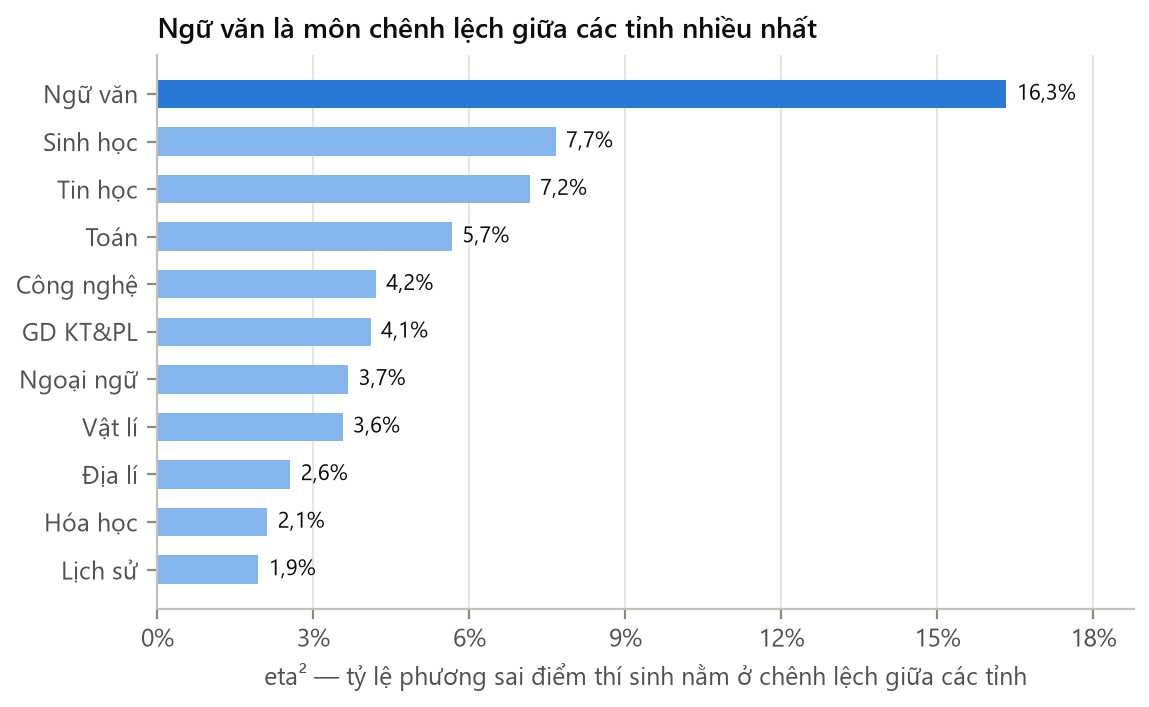
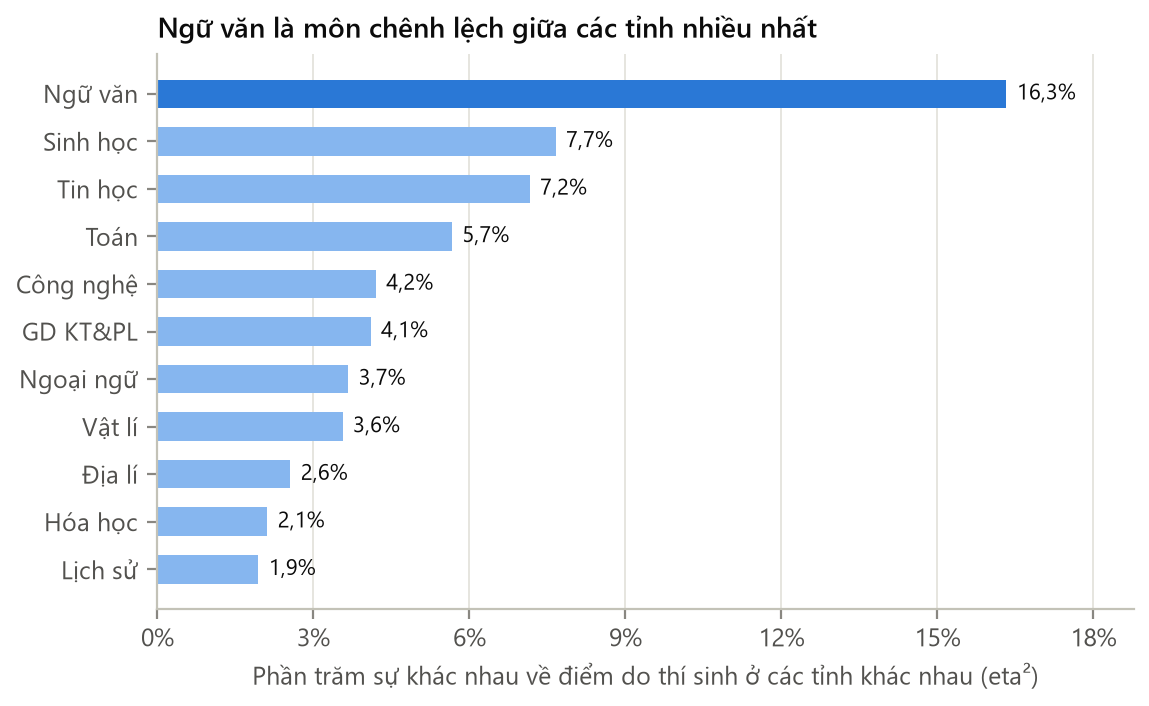
Hình: thay nhãn thuật ngữ bằng lời dễ hiểu (H5.2, H5.4, H5.5, H5.6); cập nhật trạng thái đề cương

diff --git a/bao_cao/ve_hinh.py b/bao_cao/ve_hinh.py
@@ -274,7 +274,7 @@ def h5_2():
     ax.grid(axis="y", visible=False)
     ax.set_xlim(0, d.eta2.max() * 1.15)
     ax.set_xticks(np.arange(0, 0.181, 0.03))
-    ax.set_xlabel("eta² — tỷ lệ phương sai điểm thí sinh nằm ở chênh lệch giữa các tỉnh")
+    ax.set_xlabel("Phần trăm sự khác nhau về điểm do thí sinh ở các tỉnh khác nhau (eta²)")
     ax.set_title("Ngữ văn là môn chênh lệch giữa các tỉnh nhiều nhất")
     save(fig, "H5_2_eta2_chenh_lech_mon")
 
@@ -342,7 +342,8 @@ def h5_4():
         ax.set_xscale("log")
         ax.set_xticks([3, 4, 5, 6, 8, 10], ["3", "4", "5", "6", "8", "10"])
         ax.minorticks_off()
-        ax.set_title(f"{lab}  ·  R² ngoài mẫu (5-fold) = {vn(kf.loc[col, 'r2_cv_tb'])}", fontsize=9)
+        ax.set_title(f"{lab}: thu nhập giải thích được {vn(kf.loc[col, 'r2_cv_tb'] * 100, 0)}% chênh lệch",
+                     fontsize=9)
         ax.yaxis.set_major_formatter(vn_fmt(1))
     axes[0].set_ylabel("Điểm trung bình tỉnh")
     axes[1].tick_params(labelleft=True)
@@ -371,11 +372,12 @@ def h5_5():
     for _, r in g.loc[dist.nlargest(12).index].iterrows():
         ax.annotate(r.ten_tinh, (r.pc1, r.pc2), xytext=(4, 3), textcoords="offset points", fontsize=7, color=INK2)
     ax.axhline(0, color=AXIS, lw=0.8, zorder=1); ax.axvline(0, color=AXIS, lw=0.8, zorder=1)
-    ax.set_xlabel(f"Thành phần chính 1 ({vn(ev.pc1 * 100, 0)}% phương sai)")
-    ax.set_ylabel(f"Thành phần chính 2 ({vn(ev.pc2 * 100, 0)}% phương sai)")
+    ax.set_xlabel(f"← khá giả hơn          Trục mức sống (gộp 9 chỉ tiêu, giữ {vn(ev.pc1 * 100, 0)}% thông tin)"
+                  "          khó khăn hơn →")
+    ax.set_ylabel(f"Trục phụ (giữ {vn(ev.pc2 * 100, 0)}% thông tin)")
     ax.xaxis.set_major_formatter(vn_fmt(0)); ax.yaxis.set_major_formatter(vn_fmt(0))
     ax.legend(loc="upper center", bbox_to_anchor=(0.5, -0.14), ncol=3, fontsize=8)
-    ax.set_title("Phân cụm KMeans (k = 3) 34 tỉnh, chiếu lên 2 thành phần chính")
+    ax.set_title("34 tỉnh tự chia thành 3 nhóm (thuật toán KMeans)")
     save(fig, "H5_5_kmeans_pca")
 
 
@@ -428,7 +430,7 @@ def h5_6():
     a2.set_yticks(y, ts.ten, fontsize=6.5)
     a2.set_ylim(-1.8, len(ts) + 0.6)
     a2.xaxis.set_major_formatter(vn_fmt(1)); a2.grid(axis="y", visible=False)
-    a2.set_xlabel("Tỷ số: % bài đúng 5,0 / TB(% ở 4,5 và 5,5)")
+    a2.set_xlabel("Mức 5,0 nhiều gấp mấy lần các mức 4,5 và 5,5")
     a2.set_title("Theo tỉnh: độ nhô của mức 5,0", fontsize=9)
     fig.suptitle("Ngữ văn: số bài dồn ở đúng 5,0 điểm (quan sát thống kê)", x=0.01, ha="left",
                  fontsize=10, weight="semibold")

diff --git a/bao_cao/DE_CUONG.md b/bao_cao/DE_CUONG.md
@@ -2,40 +2,42 @@
 
 **Tên đề tài:** Tích hợp dữ liệu điểm thi tốt nghiệp THPT 2026 với điều kiện kinh tế – xã hội 34 tỉnh, thành và phân tích bằng Apache Spark
 
-Quy ước trạng thái: ⬜ chưa có số liệu · 🟨 có số liệu, chưa viết · ✅ đã viết
+Quy ước trạng thái: ⬜ chưa có số liệu · 🟨 có số liệu, chưa viết · ✅ đã viết bản nháp
+
+**Bản nháp nội dung chương 1–5 nằm trong `bao_cao/dat_van_de.md`** (mỗi chương có đoạn báo cáo + lời nói mẫu).
 
 Khổ A4, Times New Roman 13, giãn dòng 1,3. Khoảng 20 trang nội dung, chưa tính bìa, mục lục và phụ lục.
 
 | # | Chương / mục | Trang | Nguồn số liệu, bảng/hình | TT |
 |---|---|---|---|---|
 | — | Bìa, lời cảm ơn, mục lục, danh mục bảng/hình | (ngoài 20) | | ⬜ |
-| 1 | **Mở đầu** | 2 | | ⬜ |
-| 1.1 | Bối cảnh: thi 2025+ theo chương trình mới (4 môn), sáp nhập 63 → 34 tỉnh từ 01/07/2025 | | NQ 202/2025/QH15 | ⬜ |
-| 1.2 | Câu hỏi nghiên cứu (2 câu) | | CLAUDE.md §1 | ⬜ |
-| 1.3 | Phạm vi, đóng góp: pipeline tích hợp + phân tích bằng Spark | | | ⬜ |
-| 2 | **Dữ liệu** | 3 | | ⬜ |
-| 2.1 | Điểm thi 2026: nguồn, quy mô (1.200.202 dòng, 34 CSV, ~115 MB), lược đồ | | Bảng 2.1 lược đồ cột | 🟨 |
-| 2.2 | Niên giám thống kê 2025: phụ lục 34 tỉnh, 209 biểu; các biểu đã trích | | Bảng 2.2 = CLAUDE.md §5 | 🟨 |
-| 2.3 | Bảng ánh xạ 63 → 34 tỉnh | | `data/reference/map_63_34_tinh.csv` | 🟨 |
-| 2.4 | Vấn đề đạo đức: dữ liệu cá nhân, bỏ SBD, chỉ công bố số liệu tổng hợp | | | ⬜ |
-| 3 | **Tích hợp dữ liệu: vấn đề và cách xử lý** (điểm nhấn) | 4 | | ⬜ |
-| 3.1 | Điểm dồn trong cột `extra` (HTML-encoded): tỷ lệ có điểm Toán 39,3% → 98,6% | | `spark/chat_luong_du_lieu.csv`; Hình 3.1 trước/sau | 🟨 |
-| 3.2 | Đổi môn GDCD → GD KT&PL, môn mới | | | 🟨 |
-| 3.3 | Mã tỉnh bị tái sử dụng (7 mã): ví dụ ghép sai im lặng | | Bảng 3.1 | 🟨 |
-| 3.4 | Trích bảng từ PDF: số kiểu VN, ô trống lệch cột, biểu 2 trang | | Hình 3.2 minh họa trang PDF | 🟨 |
-| 3.5 | Kiểm chứng: tổng 34 tỉnh = "Cả nước"; Spark = pandas | | `spark/doi_chieu_pandas` | 🟨 |
-| 4 | **Kiến trúc pipeline Big Data** | 3 | | ⬜ |
-| 4.1 | Sơ đồ tổng thể: nguồn → Bronze → Silver → Gold → MLlib → báo cáo | | H4.1 | 🟨 |
-| 4.2 | PySpark ETL: đọc song song, pandas UDF (Arrow) giải mã `extra`, unpivot, cửa sổ | | `spark/etl_diemthi.py` | 🟨 |
-| 4.3 | Môi trường và các lỗi khi triển khai Spark trên Windows | | `spark/README.md` | 🟨 |
-| 4.4 | Hiệu năng: thời gian từng bước, Spark vs pandas | | `spark/thoi_gian_chay.csv` | 🟨 |
-| 5 | **Kết quả phân tích** | 6 | | ⬜ |
-| 5.1 | Mô tả: phân phối điểm từng môn toàn quốc; tổ hợp môn phổ biến | | Hình 5.1 histogram; Bảng 5.1 tổ hợp | 🟨 |
-| 5.2 | CH2: Môn nào chênh lệch giữa các tỉnh nhiều nhất (eta², độ lệch chuẩn giữa tỉnh, khoảng cách) | | `chenh_lech_giua_tinh_theo_mon.csv`; Hình 5.2 | 🟨 |
-| 5.3 | CH1: Tương quan KT-XH ↔ điểm (Spearman, n=34) | | Hình 5.3 heatmap; Hình 5.4 scatter thu nhập–Toán | 🟨 |
-| 5.4 | Hồi quy tuyến tính MLlib (chuẩn hóa, k-fold CV) | | Bảng 5.2 hệ số, R² CV (`ml_hoi_quy_*.csv`, `ml_vif.csv`) | 🟨 |
-| 5.5 | Phân cụm tỉnh KMeans (chọn k bằng silhouette) | | Hình 5.5 PCA 2D tô màu theo cụm (`ml_kmeans_k3_*.csv`, `ml_pca_tai.csv`) | 🟨 |
-| 5.6 | Quan sát: điểm Văn dồn ở 5,0, chỉ nêu như quan sát thống kê | | H5.6, `van_dinh_5_theo_tinh.csv` | 🟨 |
+| 1 | **Mở đầu** | 2 | | ✅ |
+| 1.1 | Bối cảnh: thi 2025+ theo chương trình mới (4 môn), sáp nhập 63 → 34 tỉnh từ 01/07/2025 | | NQ 202/2025/QH15 | ✅ |
+| 1.2 | Câu hỏi nghiên cứu (2 câu) | | CLAUDE.md §1 | ✅ |
+| 1.3 | Phạm vi, đóng góp: pipeline tích hợp + phân tích bằng Spark | | | ✅ |
+| 2 | **Dữ liệu** | 3 | | ✅ |
+| 2.1 | Điểm thi 2026: nguồn, quy mô (1.200.202 dòng, 34 CSV, ~115 MB), lược đồ | | Bảng 2.1 lược đồ cột | ✅ |
+| 2.2 | Niên giám thống kê 2025: phụ lục 34 tỉnh, 209 biểu; các biểu đã trích | | Bảng 2.2 = CLAUDE.md §5 | ✅ |
+| 2.3 | Bảng ánh xạ 63 → 34 tỉnh | | `data/reference/map_63_34_tinh.csv` | ✅ |
+| 2.4 | Vấn đề đạo đức: dữ liệu cá nhân, bỏ SBD, chỉ công bố số liệu tổng hợp | | | ✅ |
+| 3 | **Tích hợp dữ liệu: vấn đề và cách xử lý** (điểm nhấn) | 4 | | ✅ |
+| 3.1 | Điểm dồn trong cột `extra` (HTML-encoded): tỷ lệ có điểm Toán 39,3% → 98,6% | | `spark/chat_luong_du_lieu.csv`; Hình 3.1 trước/sau | ✅ |
+| 3.2 | Đổi môn GDCD → GD KT&PL, môn mới | | | ✅ |
+| 3.3 | Mã tỉnh bị tái sử dụng (7 mã): ví dụ ghép sai im lặng | | Bảng 3.1 | ✅ |
+| 3.4 | Trích bảng từ PDF: số kiểu VN, ô trống lệch cột, biểu 2 trang | | Hình 3.2 minh họa trang PDF | ✅ |
+| 3.5 | Kiểm chứng: tổng 34 tỉnh = "Cả nước"; Spark = pandas | | `spark/doi_chieu_pandas` | ✅ |
+| 4 | **Kiến trúc pipeline Big Data** | 3 | | ✅ |
+| 4.1 | Sơ đồ tổng thể: nguồn → Bronze → Silver → Gold → MLlib → báo cáo | | H4.1 | ✅ |
+| 4.2 | PySpark ETL: đọc song song, pandas UDF (Arrow) giải mã `extra`, unpivot, cửa sổ | | `spark/etl_diemthi.py` | ✅ |
+| 4.3 | Môi trường và các lỗi khi triển khai Spark trên Windows | | `spark/README.md` | ✅ |
+| 4.4 | Hiệu năng: thời gian từng bước, Spark vs pandas | | `spark/thoi_gian_chay.csv` | ✅ |
+| 5 | **Kết quả phân tích** | 6 | | ✅ |
+| 5.1 | Mô tả: phân phối điểm từng môn toàn quốc; tổ hợp môn phổ biến | | Hình 5.1 histogram; Bảng 5.1 tổ hợp | ✅ |
+| 5.2 | CH2: Môn nào chênh lệch giữa các tỉnh nhiều nhất (eta², độ lệch chuẩn giữa tỉnh, khoảng cách) | | `chenh_lech_giua_tinh_theo_mon.csv`; Hình 5.2 | ✅ |
+| 5.3 | CH1: Tương quan KT-XH ↔ điểm (Spearman, n=34) | | Hình 5.3 heatmap; Hình 5.4 scatter thu nhập–Toán | ✅ |
+| 5.4 | Hồi quy tuyến tính MLlib (chuẩn hóa, k-fold CV) | | Bảng 5.2 hệ số, R² CV (`ml_hoi_quy_*.csv`, `ml_vif.csv`) | ✅ |
+| 5.5 | Phân cụm tỉnh KMeans (chọn k bằng silhouette) | | Hình 5.5 PCA 2D tô màu theo cụm (`ml_kmeans_k3_*.csv`, `ml_pca_tai.csv`) | ✅ |
+| 5.6 | Quan sát: điểm Văn dồn ở 5,0, chỉ nêu như quan sát thống kê | | H5.6, `van_dinh_5_theo_tinh.csv` | ✅ |
 | 6 | **Thảo luận** | 1,5 | | ⬜ |
 | 6.1 | Diễn giải; tương quan không phải nhân quả; n=34 nhỏ; ecological fallacy | | | ⬜ |
 | 6.2 | Hạn chế: tự chọn môn (selection bias), dữ liệu cào web, số liệu 2025 vs thi 2026 | | | ⬜ |
